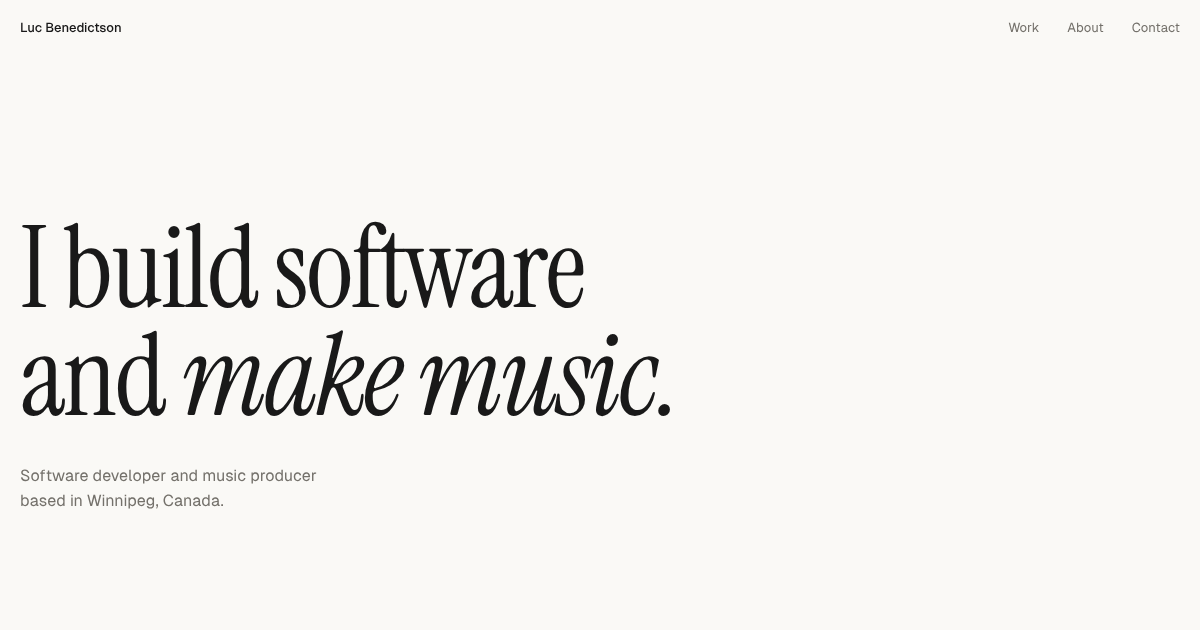
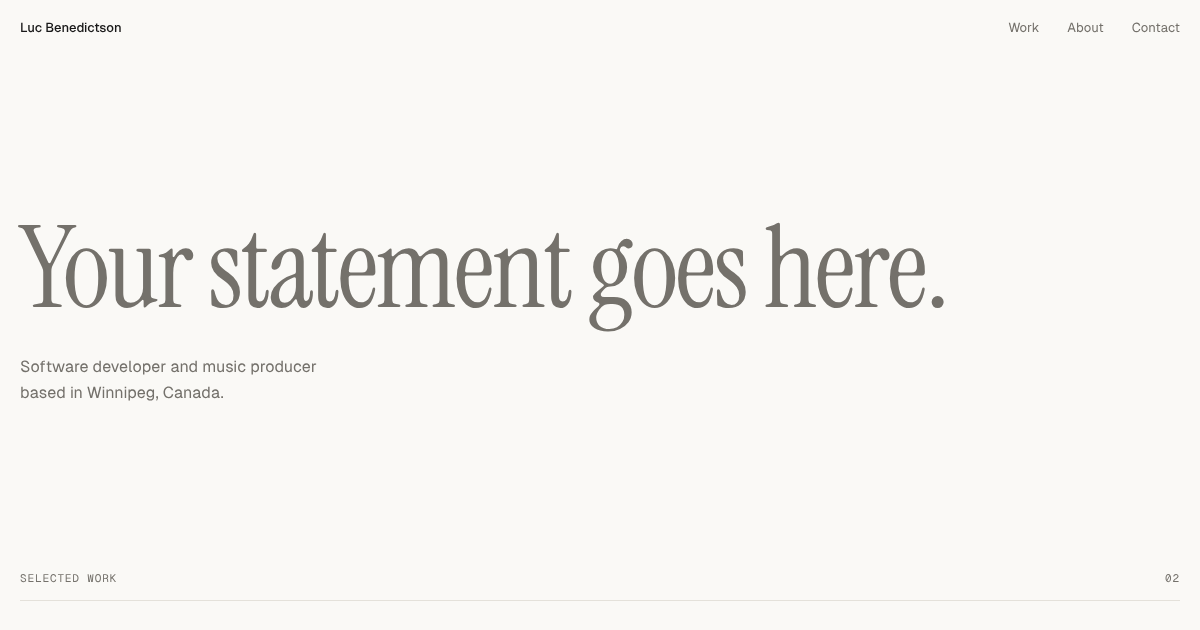
Replace hero and footer statements with a placeholder statement
Claude-Session: https://claude.ai/code/session_01UTa9UBvGzaMP1nHGRmx7CK

Changed region(s): [[0.0, 0.3317, 0.8017, 0.6635], [0.0, 0.7238, 0.2467, 0.8143], [0.0308, 0.9048, 0.0925, 0.9349]]

diff --git a/index.html b/index.html
@@ -46,7 +46,9 @@
         <span>Winnipeg, Canada</span>
         <span class="local-time" aria-label="Local time in Winnipeg"><span id="clock">&nbsp;</span> local</span>
       </p>
-      <h1 id="hero-title" data-reveal>I build software<br>and <em>make music.</em></h1>
+      <!-- ABOUT STATEMENT: replace the placeholder text below with your own statement.
+           Wrap a word in <em>…</em> to set it in italics. Then delete the class="placeholder-statement". -->
+      <h1 id="hero-title" class="placeholder-statement" data-reveal>Your statement goes here.</h1>
       <p class="hero-sub" data-reveal>Software developer and music producer based in Winnipeg, Canada.</p>
     </div>
   </section>
@@ -179,7 +181,7 @@
 <!-- CONTACT -->
 <footer class="contact" id="contact" aria-labelledby="contact-title">
   <div class="frame">
-    <h2 id="contact-title" data-reveal>Always making <em>something.</em></h2>
+    <h2 id="contact-title" class="label contact-label">Contact</h2>
     <div class="contact-row" data-reveal>
       <button class="copy" type="button" data-email="lucben2002@gmail.com" aria-describedby="copy-status">
         <span class="copy-text">lucben2002@gmail.com</span>

diff --git a/styles.css b/styles.css
@@ -175,6 +175,8 @@ a:hover .arrow { transform: translate(2px, -2px); }
   text-wrap: balance;
 }
 .hero h1 em { font-style: italic; }
+/* shown until the real statement is written */
+.hero h1.placeholder-statement { color: var(--muted); opacity: 0.45; }
 .hero-sub {
   margin-top: 32px;
   max-width: 30ch;
@@ -381,20 +383,16 @@ a:hover .arrow { transform: translate(2px, -2px); }
   padding-top: clamp(140px, 18vw, 240px);
   padding-bottom: calc(40px + env(safe-area-inset-bottom, 0px));
 }
-.contact h2 {
-  font-family: var(--serif);
-  font-weight: 400;
-  font-size: clamp(2.75rem, 7vw, 6rem);
-  line-height: 1;
-  letter-spacing: -0.02em;
+.contact-label {
+  padding-bottom: 16px;
+  border-bottom: 1px solid var(--rule);
 }
-.contact h2 em { font-style: italic; }
 .contact-row {
   display: flex;
   flex-wrap: wrap;
   align-items: center;
   gap: 16px 28px;
-  margin-top: 40px;
+  margin-top: 32px;
   font-size: 14px;
 }
 .copy {
